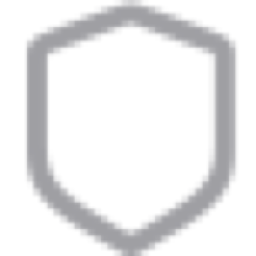
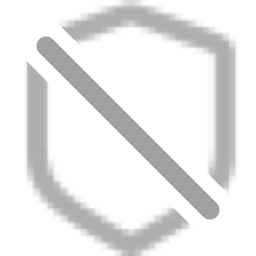
fix(safari): distinguish disabled protection with a slashed shield

Changed region(s): [[0.0938, 0.0938, 0.875, 0.875]]

diff --git a/wBlock Scripts (iOS)/Resources/background.js b/wBlock Scripts (iOS)/Resources/background.js
@@ -1155,12 +1155,12 @@ tic",i);try{await Pt({action:"logExtensionDiagnostic",fields:i})}catch(O){consol
 _scheme",url:t,protocol:i.protocol,host:i.hostname||""}}catch{return{supported:!1,reason:"invalid_url",url:t}}},wi=async t=>{if(!t||typeof t.id!="number")return{supported:!1,reason:"missing_tab"};const i=bi(t.url);return i.reason==="missing_url"?{supported:!0,reason:"pending_url",tabId:t.id}:i.supported?{supported:!0,reason:"supported",tabId:t.id,url:i.url,protocol:i.protocol,host:i.host}:{...i,tabId:t.id}},Jr=(t,i)=>{try{return(Ve.i18n&&Ve.i18n.getMessage?Ve.i18n.getMessage(t):"")||i}catch{return i}},
 Ai=(t,i,O)=>{const D=Jr("extension_name","wBlock Scripts");return t?i?`${D} \u2014 ${Jr("popup_status_paused","Paused")}`:O?`${D} \u2014 ${Jr("popup_status_disabled","Disabled")}`:D:`${D} \u2014 ${Jr("popup_status_unsupported","Unsupported")}`},Ei=async()=>{try{const t=await Pt({action:"getBlockingPausedState"});return!!(t&&t.paused)}catch(t){return console.warn("[wBlock] Failed to resolve global pause state:",t),!1}},Si=async t=>{const i=dr(t);if(!i)return!1;try{const O=await Cn(i);return!!(O&&
 O.disabled)}catch(O){return console.warn("[wBlock] Failed to resolve action disabled state:",O),!1}},zr=async t=>{if(!t||typeof t.id!="number")return;const i=await wi(t),O=i.supported,D=O?await Ei():!1,L=O&&!D?await Si(i.host||""):!1,Z=[];li&&Z.push((O?Ve.action.enable(t.id):Ve.action.disable(t.id)).catch(M=>{console.warn("[wBlock] Failed to update action enabled state:",M)})),ci&&Z.push(Ve.action.setPopup({tabId:t.id,popup:O?ii:""}).catch(M=>{console.warn("[wBlock] Failed to update action popup\
-:",M)})),fi&&Z.push(Ve.action.setIcon({tabId:t.id,path:D||L?si:ui}).catch(M=>{console.warn("[wBlock] Failed to update action icon:",M)})),pi&&Z.push(Ve.action.setBadgeText({tabId:t.id,text:D?"II":""}).catch(M=>{console.warn("[wBlock] Failed to update action badge:",M)})),vi&&D&&Z.push(Ve.action.setBadgeBackgroundColor({tabId:t.id,color:"#F59E0B"}).catch(M=>{console.warn("[wBlock] Failed to update action badge color:",M)})),di&&Z.push(Ve.action.setTitle({tabId:t.id,title:Ai(O,D,L)}).catch(M=>{console.
-warn("[wBlock] Failed to update action title:",M)})),Z.length>0&&await Promise.all(Z);const _=JSON.stringify({supported:i.supported,blockingPaused:D,siteDisabled:L,reason:i.reason,protocol:i.protocol||"",host:i.host||"",url:i.url||"",error:i.error||""});fn.get(t.id)!==_&&(fn.set(t.id,_),i.supported||await yi({event:"support_decision",source:"background",outcome:"unsupported",reason:i.reason,tabId:t.id,protocol:i.protocol,host:i.host,url:i.url,error:i.error}))},Dn=async()=>{if(!(!On||!Ve.tabs.query))
-try{const t=await Ve.tabs.query({});await Promise.all(t.map(zr))}catch(t){console.warn("[wBlock] Failed to refresh action state for tabs:",t)}},$i=900*1e3;let Fn=0,wr=null;const Ri=()=>{const t=Date.now();return wr||t-Fn<$i?wr||Promise.resolve():(Fn=t,wr=Pt({action:"maybeUpdateUserScripts"}).then(i=>{i&&i.updated>0&&gr()}).catch(i=>{console.warn("[wBlock] Userscript refresh ping failed:",i)}).finally(()=>{wr=null}),wr)},xi=900*1e3;let _n=0,Ar=null;const ji=()=>{const t=Date.now();return Ar||t-_n<
-xi?Ar||Promise.resolve():(_n=t,Ar=Pt({action:"maybeStageFilterUpdates"}).catch(i=>{console.warn("[wBlock] Filter staging ping failed:",i)}).finally(()=>{Ar=null}),Ar)};On&&(Ve.tabs.onUpdated&&Ve.tabs.onUpdated.addListener((t,i,O)=>{O&&(i&&(i.status==="loading"||typeof i.url=="string")&&zt.delete(O.id),!(i&&i.status&&i.status!=="complete"&&!i.url)&&(zr(O),i&&i.status==="complete"&&Ri().then(ji)))}),Ve.tabs.onActivated&&Ve.tabs.get&&Ve.tabs.onActivated.addListener(async t=>{try{const i=await Ve.tabs.
-get(t.tabId);await zr(i)}catch(i){console.warn("[wBlock] Failed to sync action state for active tab:",i)}}),Ve.tabs.onCreated&&Ve.tabs.onCreated.addListener(t=>{zr(t)}),Ve.tabs.onRemoved&&Ve.tabs.onRemoved.addListener(t=>{fn.delete(t),zt.delete(t)}));const Kr=250,dn="wblockRemoveParamDNRVersion",Ci=6e4,Ii=5e3;let Er=null,Yr=null,Wn="",kn=0;const Mn=async()=>{const t=await Pt({action:"getRemoveParamDNRRules",offset:0,limit:Kr});if(!t||t.ok!==!0)throw new Error(t&&t.error?t.error:"Failed to load r\
-emoveparam DNR rules");const i=String(t.version||""),O=Math.max(0,Number(t.count)||0);if(Yr&&Wn===i&&Yr.length===O)return{version:i,count:O,ruleIdBase:Number(t.ruleIdBase)||15e5,ruleIdLimit:Number(t.ruleIdLimit)||165e4,rules:Yr};const D=Array.isArray(t.rules)?t.rules.slice():[];for(let L=Kr;L<O;L+=Kr){const Z=await Pt({action:"getRemoveParamDNRRules",offset:L,limit:Kr});if(!Z||Z.ok!==!0)throw new Error(Z&&Z.error?Z.error:`Failed to load removeparam DNR rules at ${L}`);if(String(Z.version||"")!==
+:",M)})),fi&&Z.push(Ve.action.setIcon({tabId:t.id,path:!O||D||L?si:ui}).catch(M=>{console.warn("[wBlock] Failed to update action icon:",M)})),pi&&Z.push(Ve.action.setBadgeText({tabId:t.id,text:D?"II":""}).catch(M=>{console.warn("[wBlock] Failed to update action badge:",M)})),vi&&D&&Z.push(Ve.action.setBadgeBackgroundColor({tabId:t.id,color:"#F59E0B"}).catch(M=>{console.warn("[wBlock] Failed to update action badge color:",M)})),di&&Z.push(Ve.action.setTitle({tabId:t.id,title:Ai(O,D,L)}).catch(M=>{
+console.warn("[wBlock] Failed to update action title:",M)})),Z.length>0&&await Promise.all(Z);const _=JSON.stringify({supported:i.supported,blockingPaused:D,siteDisabled:L,reason:i.reason,protocol:i.protocol||"",host:i.host||"",url:i.url||"",error:i.error||""});fn.get(t.id)!==_&&(fn.set(t.id,_),i.supported||await yi({event:"support_decision",source:"background",outcome:"unsupported",reason:i.reason,tabId:t.id,protocol:i.protocol,host:i.host,url:i.url,error:i.error}))},Dn=async()=>{if(!(!On||!Ve.
+tabs.query))try{const t=await Ve.tabs.query({});await Promise.all(t.map(zr))}catch(t){console.warn("[wBlock] Failed to refresh action state for tabs:",t)}},$i=900*1e3;let Fn=0,wr=null;const Ri=()=>{const t=Date.now();return wr||t-Fn<$i?wr||Promise.resolve():(Fn=t,wr=Pt({action:"maybeUpdateUserScripts"}).then(i=>{i&&i.updated>0&&gr()}).catch(i=>{console.warn("[wBlock] Userscript refresh ping failed:",i)}).finally(()=>{wr=null}),wr)},xi=900*1e3;let _n=0,Ar=null;const ji=()=>{const t=Date.now();return Ar||
+t-_n<xi?Ar||Promise.resolve():(_n=t,Ar=Pt({action:"maybeStageFilterUpdates"}).catch(i=>{console.warn("[wBlock] Filter staging ping failed:",i)}).finally(()=>{Ar=null}),Ar)};On&&(Ve.tabs.onUpdated&&Ve.tabs.onUpdated.addListener((t,i,O)=>{O&&(i&&(i.status==="loading"||typeof i.url=="string")&&zt.delete(O.id),!(i&&i.status&&i.status!=="complete"&&!i.url)&&(zr(O),i&&i.status==="complete"&&Ri().then(ji)))}),Ve.tabs.onActivated&&Ve.tabs.get&&Ve.tabs.onActivated.addListener(async t=>{try{const i=await Ve.
+tabs.get(t.tabId);await zr(i)}catch(i){console.warn("[wBlock] Failed to sync action state for active tab:",i)}}),Ve.tabs.onCreated&&Ve.tabs.onCreated.addListener(t=>{zr(t)}),Ve.tabs.onRemoved&&Ve.tabs.onRemoved.addListener(t=>{fn.delete(t),zt.delete(t)}));const Kr=250,dn="wblockRemoveParamDNRVersion",Ci=6e4,Ii=5e3;let Er=null,Yr=null,Wn="",kn=0;const Mn=async()=>{const t=await Pt({action:"getRemoveParamDNRRules",offset:0,limit:Kr});if(!t||t.ok!==!0)throw new Error(t&&t.error?t.error:"Failed to l\
+oad removeparam DNR rules");const i=String(t.version||""),O=Math.max(0,Number(t.count)||0);if(Yr&&Wn===i&&Yr.length===O)return{version:i,count:O,ruleIdBase:Number(t.ruleIdBase)||15e5,ruleIdLimit:Number(t.ruleIdLimit)||165e4,rules:Yr};const D=Array.isArray(t.rules)?t.rules.slice():[];for(let L=Kr;L<O;L+=Kr){const Z=await Pt({action:"getRemoveParamDNRRules",offset:L,limit:Kr});if(!Z||Z.ok!==!0)throw new Error(Z&&Z.error?Z.error:`Failed to load removeparam DNR rules at ${L}`);if(String(Z.version||"")!==
 i)throw new Error(`Removeparam DNR rules changed while loading at ${L}`);Array.isArray(Z.rules)&&D.push(...Z.rules)}if(D.length!==O)throw new Error(`Removeparam DNR rule count mismatch: expected ${O}, got ${D.length}`);return Yr=D,Wn=i,{version:i,count:O,ruleIdBase:Number(t.ruleIdBase)||15e5,ruleIdLimit:Number(t.ruleIdLimit)||165e4,rules:D}},Oi=t=>{if(!t||!t.condition)return t;const i={...t.condition};if(Array.isArray(i.initiatorDomains)&&(i.domains=i.initiatorDomains,delete i.initiatorDomains),
 Array.isArray(i.excludedInitiatorDomains)&&(i.excludedDomains=i.excludedInitiatorDomains,delete i.excludedInitiatorDomains),Array.isArray(i.excludedRequestDomains)&&i.excludedRequestDomains.length>0)return null;if(Array.isArray(i.requestDomains)&&i.requestDomains.length>0)if(t.action&&t.action.type==="allow"&&!i.urlFilter&&i.requestDomains.length===1)i.urlFilter=`||${i.requestDomains[0]}^`,delete i.requestDomains;else return null;return{...t,condition:i}},Pi=t=>{const i=Ve.declarativeNetRequest,
 O=Number(i&&i.MAX_NUMBER_OF_DYNAMIC_AND_SESSION_RULES),D=Number.isFinite(O)&&O>0;let L=t.slice();if(!D){const Z=t.map(Oi);L=t.some((M,T)=>M&&M.action&&M.action.type==="allow"&&!Z[T])?[]:Z.filter(Boolean)}return{prepared:L,reportedLimit:D?Math.floor(O):Ii}},Ti=async()=>{if(!Ve.declarativeNetRequest||typeof Ve.declarativeNetRequest.updateDynamicRules!="function")return;const t=await Mn(),{version:i,ruleIdBase:O,ruleIdLimit:D,rules:L}=t,Z=await Ve.storage.local.get(dn),_=typeof Ve.declarativeNetRequest.

diff --git a/scripts/render_disabled_action_icons.swift b/scripts/render_disabled_action_icons.swift
@@ -1,0 +1,48 @@
+#!/usr/bin/env swift
+
+import AppKit
+
+// Run from the repository root: swift scripts/render_disabled_action_icons.swift
+// Safari tints toolbar icons using their alpha mask, so gray alone cannot
+// distinguish disabled protection. Cut a gap around a diagonal slash instead.
+let directory = URL(fileURLWithPath: "wBlock Scripts (iOS)/Resources/assets/images", isDirectory: true)
+let gray = CGColor(gray: 0.56, alpha: 1)
+
+for size in [48, 96, 128, 256, 512] {
+    let source = directory.appendingPathComponent("icon-\(size).png")
+    guard let image = NSBitmapImageRep(data: try Data(contentsOf: source))?.cgImage,
+          image.width == size, image.height == size,
+          let context = CGContext(
+            data: nil, width: size, height: size, bitsPerComponent: 8,
+            bytesPerRow: size * 4, space: CGColorSpaceCreateDeviceRGB(),
+            bitmapInfo: CGImageAlphaInfo.premultipliedLast.rawValue
+          ) else {
+        fatalError("Cannot render icon at \(size)px")
+    }
+
+    let side = CGFloat(size)
+    let bounds = CGRect(x: 0, y: 0, width: side, height: side)
+    context.clip(to: bounds, mask: image)
+    context.setFillColor(gray)
+    context.fill(bounds)
+    context.resetClip()
+
+    func strokeSlash(width: CGFloat, blendMode: CGBlendMode) {
+        context.setBlendMode(blendMode)
+        context.setStrokeColor(gray)
+        context.setLineWidth(side * width)
+        context.setLineCap(.round)
+        context.move(to: CGPoint(x: side * 0.18, y: side * 0.82))
+        context.addLine(to: CGPoint(x: side * 0.82, y: side * 0.18))
+        context.strokePath()
+    }
+
+    strokeSlash(width: 0.19, blendMode: .clear)
+    strokeSlash(width: 0.075, blendMode: .normal)
+
+    guard let output = context.makeImage(),
+          let png = NSBitmapImageRep(cgImage: output).representation(using: .png, properties: [:]) else {
+        fatalError("Cannot encode icon at \(size)px")
+    }
+    try png.write(to: directory.appendingPathComponent("icon-disabled-\(size).png"))
+}

diff --git a/scripts/test_action_icon_masks.swift b/scripts/test_action_icon_masks.swift
@@ -1,0 +1,19 @@
+import AppKit
+let directory = URL(fileURLWithPath: "wBlock Scripts (iOS)/Resources/assets/images")
+for size in [48, 96, 128, 256, 512] {
+    func pixels(_ disabled: Bool) throws -> [UInt8] {
+        let url = directory.appendingPathComponent("icon-\(disabled ? "disabled-" : "")\(size).png")
+        let image = NSBitmapImageRep(data: try Data(contentsOf: url))!.cgImage!
+        precondition(image.width == size && image.height == size)
+        let context = CGContext(data: nil, width: size, height: size, bitsPerComponent: 8, bytesPerRow: size * 4, space: CGColorSpaceCreateDeviceRGB(), bitmapInfo: CGImageAlphaInfo.premultipliedLast.rawValue)!
+        context.draw(image, in: CGRect(x: 0, y: 0, width: size, height: size))
+        return Array(UnsafeBufferPointer(start: context.data!.assumingMemoryBound(to: UInt8.self), count: size * size * 4))
+    }
+    let enabled = try pixels(false), disabled = try pixels(true)
+    let changed = stride(from: 3, to: enabled.count, by: 4).filter { abs(Int(enabled[$0]) - Int(disabled[$0])) > 128 }.count
+    precondition(changed > size * size / 25, "Shape must survive template tinting")
+    precondition(disabled[3] == 0, "Transparent background required")
+    let center = ((size / 2) * size + size / 2) * 4 + 3
+    precondition(disabled[center] > 200 && enabled[center] < 20, "Slash must cross the empty shield center")
+    print("PASS: \(size)px, \(changed) distinctly changed alpha pixels, slash and transparency intact")
+}

diff --git a/extension-src/background.js b/extension-src/background.js
@@ -27439,7 +27439,8 @@ function _toPrimitive(t, r) { if ("object" != typeof t || !t) return t; var e = 
     if (canSetActionIcon) {
       updates.push(browser.action.setIcon({
         tabId: tab.id,
-        path: blockingPaused || siteDisabled ? DISABLED_ACTION_ICON : DEFAULT_ACTION_ICON
+        // Safari applies its own tint; the disabled asset must differ in shape.
+        path: !supported || blockingPaused || siteDisabled ? DISABLED_ACTION_ICON : DEFAULT_ACTION_ICON
       }).catch(error => {
         console.warn("[wBlock] Failed to update action icon:", error);
       }));
